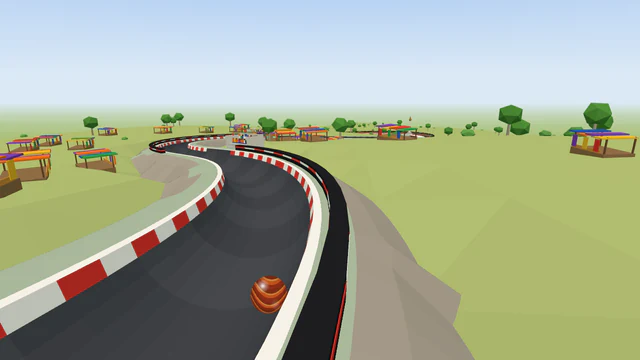
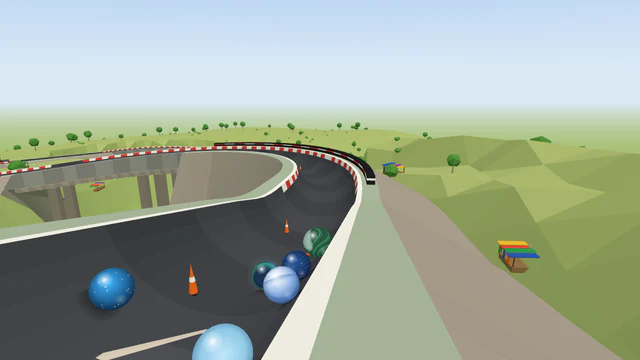
Lagos Marble Grand Prix: its own layout; its records start again
Moses: the Lagoon bridge banked turn approved, no boost launch (6 Nov 2026); built overnight on his order.
Until now Lagos was physically the same track as Sydney. A pipe drop at the gate (the field let go in
waves), a six-gate slalom drop to the market, the market S-bends, the Lagoon bridge banked turn (220° on
the steel bridge, the big feature), S-bends round Lagos Island, the beach, the Lekki S-bends and hairpin
(turning left, clear of the finish shot) and the Theatre straight; no splitter. Start shots from the
front, then high behind. Full report: all 52 lines pass (winner 54.6 s, last 84.2 s, gap 13.6 s,
60 overtakes). Data update 2027-06-02-lagos-marble-grand-prix-new-layout.sql (--relayout: its records
start again). Off the sameness test's known failures. Docs: 06, README. Full test suite: 625 pass.

Claude-Session: https://claude.ai/code/session_011vSSkqNPL9kncfzrwF15wS

diff --git a/src/tracks/lagos-marble-grand-prix.js b/src/tracks/lagos-marble-grand-prix.js
@@ -1,51 +1,79 @@
 'use strict';
 
-const { track, plunge, straight, sBends, sweep, spiral, hairpin, splitter, runIn, pileUp, swipe, parked, slalom, boost, rumble } = require('../trackKit');
+// Lagos Marble Grand Prix, its own layout (Moses, 6 Nov 2026; claude/grand-prix-relayout-plan.md). Until then it
+// was the same track as Sydney and Stockholm (the Grand Prix recipe of 10 Oct 2026, mirrored). Now a pipe drop (no
+// boost launch: it favoured the front starting group on Track and Field, Moses), the market S-bends, the Lagoon
+// bridge banked turn (the big feature, approved by Moses: 220° on the steel bridge over the lagoon), S-bends round
+// Lagos Island, the beach, the Lekki S-bends and hairpin, and the Theatre straight to the National Theatre. Its
+// records started again with the new layout (tracks.records_since).
+const {
+  track, opening, plunge, straight, sBends, sweep, hairpin, runIn, peg, slalom, swipe, parked, rumble, boost,
+} = require('../trackKit');
 
 module.exports = track({
   slug: 'lagos-marble-grand-prix',
   name: 'Lagos Marble Grand Prix',
   difficulty: 'extreme',
-  description: 'A loud, colourful race across Lagos: down from a ramp above Lagos Island, through a busy market, over the lagoon on a long bridge and down to the National Theatre.',
+  description: 'A loud, colourful race across Lagos: down a half-pipe into a busy market, round the long banked turn on the steel bridge over the lagoon, through Lagos Island and along the beach, and through Lekki to the National Theatre.',
   surface: 'asphalt',
   biome: 'city',
   lighting: 'day',
   variants: ['sunset'],
-  grandPrix: true,
-  signature: 'Lagoon bridge sweep',
+  grandPrix: { groupsEvery: 400 }, // (the small groups of spectators further apart than usual: the flyover's drawing budget)
+  signature: 'Lagoon bridge banked turn',
   tvCameras: [
-    { section: 'Lagoon bridge sweep', at: 0.8, side: 'right', distance: 6, height: 8 },
-    { section: 'Roundabout splitter', at: 0.6, side: 'right', distance: 6, height: 5 },
+    // (At the end of the bridge, looking back along the banked turn with the water beside it.)
+    { section: 'Lagoon bridge banked turn', at: 0.9, side: 'right', distance: 6, height: 6 },
+    { section: 'Lekki S-bends', at: 0.9, side: 'left', distance: 6, height: 6 },
   ],
   billboardFrame: 'led',
-  start: { landmark: 'lagos-skyline', scenery: ['grandstand'], shots: { countdown: 'above', launch: 'low-chase' } },
+  start: { landmark: 'lagos-skyline', scenery: ['grandstand'], gate: 'trapdoor', shots: { countdown: 'front', launch: 'high-behind' } },
   finish: { landmark: 'national-theatre', scenery: ['grandstand'] },
   designChanges: [
-    'The traffic-cone chicane is at the foot of the Island plunge, straight after the tyre stacks, rather than on the finish straight: a start with only the tyre stacks lets the strongest marbles win too often and sends the field into the splitter sorted by strength.',
-    'The parked danfo minibus stands on a straight, "Beach straight", before the finish rather than in the Market S-bends: the recipe keeps parked objects to straights (on a bend one traps marbles against it).',
-    'The splitter round the roundabout monument comes straight after the Market S-bends, before the Lagoon bridge, rather than after the Lekki hairpin: out of the hairpin the whole field rides one side of the channel and the splitter cannot share it out fairly (measured on Dubai Marble Grand Prix).',
-    'The Lagoon bridge sweep\'s billboards stand along the market and the straights instead: the recipe has nowhere to stand a billboard on a bridge.',
-    'A 50 m straight, "Lekki straight", before the Lekki hairpin: the recipe needs a braking zone before the one sharp bend.',
-    'The rumble strips are on the Beach straight between the spiral and the finish rather than on the spiral: the recipe keeps bumps off bends (marbles high on the wall are thrown off them).',
+    'A new layout (6 Nov 2026): until then Lagos was physically the same track as Sydney and Stockholm Marble Grand Prix (the Grand Prix recipe, mirrored), so on one seed the three ran the same race. No splitter now.',
+    'The pipe drop at the gate (a short plunge into a half-pipe down to the market): no other Grand Prix track opens this way. The gate lets the field go in waves, in a new order every race, so the front starting group gets no edge (the boost launch, Moses\'s first idea for Lagos, favoured it on Track and Field). Its start shots (from the front, then high behind) are its own.',
+    'The big feature is the Lagoon bridge banked turn: 220° on the steel bridge over the lagoon, a boost pad at its start, tighter and longer than any Grand Prix sweep before it, and a little steeper (0.12) than drawn first, for the pace.',
+    'A slalom drop down to the market straight after the half-pipe (six gates), as on the other pipe-drop tracks: the pipe drop has no pile-up, and without it the strongest marbles won too often.',
+    'The Lekki hairpin turns left: turning right, it brought the Lekki S-bends back over the finish line, 32 m up, where they covered the phone\'s finish shot.',
+    'S-bends round Lagos Island rather than a spiral, and pegs and slaloms through the market, along the beach, in the Lekki S-bends and on the Theatre straight, for the overtakes.',
   ],
+  opening: opening('pipe-drop', {
+    side: 'left',
+    names: { plunge: 'Down from the island', pipe: 'Market half-pipe' },
+    dress: { pipe: { scenery: ['market-stalls', 'crowd'] } },
+  }),
   sections: [
     {
-      name: 'Island plunge', shape: plunge(80, { grade: 0.6 }),
-      obstacles: [pileUp({ costume: 'tyre-stack', at: 0.42 }), slalom({ costume: 'traffic-cone', from: 0.55, to: 0.97, count: 6, loss: 0.3 })],
+      name: 'Down to the market', shape: plunge(50, { grade: 0.3, from: 0.15 }),
+      obstacles: [slalom({ costume: 'traffic-cone', from: 0.2, to: 0.95, count: 6, loss: 0.3 })],
     },
-    { name: 'Market S-bends', shape: sBends({ first: 'right', radius: 75, degrees: 80, grade: 0.13 }), billboards: 2, scenery: ['market-stalls', 'crowd'] },
     {
-      name: 'Roundabout splitter', shape: splitter({ side: 'right', balance: { tipOffset: 0.8, left: { drag: 0.42, scrub: 0.72 }, right: { drag: 1.32, scrub: 1.32 } } }),
-      around: 'roundabout-monument',
+      name: 'Market S-bends', shape: sBends({ first: 'right', radius: 70, degrees: 100, grade: 0.15 }), scenery: ['market-stalls', 'crowd'],
+      obstacles: [peg({ costume: 'traffic-cone', at: 0.15, line: 'center' }), peg({ costume: 'traffic-cone', at: 0.6, line: 'left' })],
     },
-    { name: 'Lagoon bridge sweep', shape: sweep({ side: 'left', radius: 80, degrees: 160, grade: 0.07 }), features: [boost({ at: 0.08 })], bridge: 'steel' },
-    { name: 'Lekki straight', shape: straight(50, { grade: 0.12 }), billboards: 2, scenery: ['crowd'] },
-    { name: 'Lekki hairpin', shape: hairpin({ side: 'right' }), obstacles: [swipe({ costume: 'camera-crane', side: 'high' })] },
-    { name: 'Beach spiral', shape: spiral({ side: 'left', radius: 45, grade: 0.17 }), scenery: ['palms'] },
     {
-      name: 'Beach straight', shape: straight(90, { grade: 0.15 }),
-      obstacles: [parked({ costume: 'danfo-bus', at: 0.15, side: 'left', length: 8 })],
-      features: [rumble({ from: 0.55, to: 0.95, count: 4 })], billboards: 2, scenery: ['palms', 'grandstand'],
+      name: 'Run to the lagoon', shape: straight(60, { grade: 0.16 }),
+      obstacles: [peg({ costume: 'traffic-cone', at: 0.15, line: 'left' }), peg({ costume: 'traffic-cone', at: 0.5, line: 'center' }), peg({ costume: 'traffic-cone', at: 0.85, line: 'right' })],
+    },
+    { name: 'Lagoon bridge banked turn', shape: sweep({ side: 'left', radius: 60, degrees: 220, grade: 0.12 }), features: [boost({ at: 0.06 })], bridge: 'steel' },
+    {
+      name: 'Island S-bends', shape: sBends({ first: 'right', radius: 65, degrees: 90, grade: 0.16 }),
+      obstacles: [peg({ costume: 'traffic-cone', at: 0.2, line: 'center' }), slalom({ costume: 'traffic-cone', from: 0.4, to: 0.85, count: 3, loss: 0.3 })],
+    },
+    {
+      name: 'Beach straight', shape: straight(60, { grade: 0.13 }), scenery: ['palms'],
+      obstacles: [parked({ costume: 'danfo-bus', at: 0.2, side: 'left', length: 6 }), peg({ costume: 'traffic-cone', at: 0.6, line: 'right' }), slalom({ costume: 'traffic-cone', from: 0.7, to: 0.95, count: 3, loss: 0.15 })],
+    },
+    {
+      name: 'Lekki S-bends', shape: sBends({ first: 'left', radius: 65, degrees: 90, grade: 0.13 }), billboards: 4, scenery: ['crowd'],
+      obstacles: [slalom({ costume: 'traffic-cone', from: 0.15, to: 0.4, count: 2, loss: 0.15 }), peg({ costume: 'traffic-cone', at: 0.5, line: 'center' }), slalom({ costume: 'traffic-cone', from: 0.6, to: 0.9, count: 2, loss: 0.15 })],
+    },
+    { name: 'Run to the hairpin', shape: straight(50, { grade: 0.12 }), obstacles: [peg({ costume: 'traffic-cone', at: 0.3, line: 'left' })] },
+    { name: 'Lekki hairpin', shape: hairpin({ side: 'left' }), obstacles: [swipe({ costume: 'camera-crane', side: 'high' })] },
+    {
+      name: 'Theatre straight', shape: straight(80, { grade: 0.17 }), billboards: 1, scenery: ['palms', 'grandstand'],
+      obstacles: [peg({ costume: 'traffic-cone', at: 0.15, line: 'left' }), peg({ costume: 'traffic-cone', at: 0.35, line: 'right' })],
+      features: [rumble({ from: 0.6, to: 0.95, count: 3 })],
     },
     { name: 'Finish', shape: runIn(), scenery: ['palms', 'grandstand'] },
   ],

diff --git a/test/samenessAllTracks.test.js b/test/samenessAllTracks.test.js
@@ -47,7 +47,6 @@ const KNOWN = {
   'dubai-marble-grand-prix': ['opening', 'opening-kind', 'layout'],
   'sydney-marble-grand-prix': ['opening', 'opening-kind', 'layout'],
   'istanbul-marble-grand-prix': ['opening', 'opening-kind', 'layout'],
-  'lagos-marble-grand-prix': ['opening', 'opening-kind', 'layout'],
   'nairobi-marble-grand-prix': ['opening', 'opening-kind', 'layout'],
   'delhi-red-fort-marble-grand-prix': ['opening', 'opening-kind', 'layout'],
   'sahara-marble-grand-prix': ['opening', 'opening-kind', 'layout'],

diff --git a/docs/06-decisions.md b/docs/06-decisions.md
@@ -4,6 +4,7 @@
 
 | Date | Decision | Why |
 |---|---|---|
+| 2026-11-07 | **Lagos Marble Grand Prix's new layout built** (technical, on Moses's approval: the Lagoon bridge banked turn approved 6 Nov 19:31; overnight order 6 Nov 23:14). A pipe drop at the gate (no boost launch, Moses; the field let go in waves), a six-gate slalom drop down to the market (the pipe drop has no pile-up: without it the strongest marbles won too often), the market S-bends, the Lagoon bridge banked turn (the big feature: 220° on the steel bridge, grade 0.12 for the pace), S-bends round Lagos Island (not a spiral, for the overtakes), the beach, the Lekki S-bends and hairpin (turning left: turning right brought the S-bends back over the finish line, covering the phone's finish shot), the Theatre straight; no splitter. Start shots from the front, then high behind. Spectator groups every 400 m (the flyover's drawing budget). Full report: all 52 lines pass (winner 54.6 s, last 84.2 s, gap 13.6 s, 60 overtakes, strongest 45.7% vs weakest 8.5%). Data update `2027-06-02-lagos-marble-grand-prix-new-layout.sql` (`--relayout`: its records start again); off the sameness test's known failures. | Lagos raced the same race as Sydney (and Stockholm, until 6 Nov) on every seed. |
 | 2026-11-06 | **Stockholm Marble Grand Prix's new layout built** (technical, on Moses's approval of the plan): a split start (the Södermalm twin chutes), then the library's climb-drop layout mirrored: the Katarina crest and the Slussen drop (its big feature and new signature; the old Bridge sweep goes), the Gamla Stan S-bends and splitter, City Hall hairpin, Djurgården spiral, Strandvägen. Two changes to the layout from tuning: the Gamla Stan S-bends turn 85° rather than 70° (out of the 70° bends the leaders took one channel of the splitter far more often than their share) and run a little steeper, with Strandvägen too (the winner-to-last gap). The splitter's tip and inside channel are tuned (tipOffset -1.6, inside 2.6). Start shots a chase then a low chase (the planned above/low chase is Lagos's today). Full report: all 56 lines pass (winner 49.1 s, last 81.5 s, gap 17.8 s, 63 overtakes). Data update `2027-06-01-stockholm-marble-grand-prix-new-layout.sql` (`--relayout`: its records start again); it comes off the sameness test's known failures. | Stockholm raced the same race as Sydney and Lagos on every seed. |
 | 2026-11-06 | **Grand Prix re-layouts, the plan review** (Moses, 19:31). **Stockholm's new layout approved as planned** (a split start, the climb-drop layout mirrored, the Slussen drop as its big feature and a Gamla Stan splitter). **Records reset approved, personal bests included**: on a re-laid track the track record, the country records and every player's personal bests (time, split, best place) start again (`tracks.records_since`, `src/game/recordsSince.js`); past results and replays stay, and the record replays of both layouts are kept. **Jumps are capped at 3 tracks and the cap is used up**: Istanbul gets another big feature (revised plan to Moses). **Lagos gets no boost-launch opening** (it favoured the front starting group on Track and Field); the Lagoon bridge banked turn is approved; a revised opening goes to Moses. Order: the records reset and Stockholm now; Lagos and Istanbul after their revisions are approved. Videos: Sahara on 7 Nov, then Grand Prix tracks may be reused, always on a seed never used on a Grand Prix track (`client/video/DAILY-ORDER.md`). | A new layout's times can't be compared with the old one's, personal bests included; jumps stay special; the opening must not hand the race to the front gates. |
 | 2026-11-06 | **The sameness check over every track, and records reset on a new layout** (Moses, after the Grand Prix investigation). 11 of the 15 Grand Prix tracks are one design: Dubai's (Dubai, Istanbul, Nairobi, Delhi Red Fort, Sahara, Wyrmwood Hollow, Frostmere with an extra drop) and its mirror (Sydney, Lagos, Stockholm, Elderglade with a waterfall). Sydney, Lagos and Stockholm are physically identical, as are Dubai and Istanbul in practice. They were built from one recipe on 10 Oct, the day before the sameness check, and the check only ever ran in a new track's own report. Now `test/samenessAllTracks.test.js` runs it on every track; today's 24 failures (these 11, ten World Tour tracks, Amazon Water Run's layout and the three hand-built tracks) are listed exceptions that may only shrink, and the Sunday docs review reports the list. **A live track whose layout changes keeps its slug and has its track and country records reset**; past results and replays stay. Next: Lagos, Stockholm and Istanbul get their own layouts, each planned for Moses's approval first; the other Grand Prix tracks, Sydney and the World Tour failures are parked. | Identical tracks race identically (the 5 Nov videos showed it); a new layout's times can't be compared with the old one's, while past races stay as they ran. |

diff --git a/docs/README.md b/docs/README.md
@@ -9,7 +9,7 @@
 **Where it stands:**
 - **Website:** live at marblespins.com (Vercel builds every push to `Main`; redeployed by Moses on 1 Nov after the Blocks Series 2 switch-on). Soft start (social media, 10–20 invited test pilots) since the week of 26 Oct. **Official launch 1 Dec 2026**, with the Holiday Season, the season pass and the apps. Google Analytics 4 is on since 31 Oct (after cookie consent); the Meta Pixel is off.
 - **Tracks:** **143 live in ten series**: World Tour, Grand Prix, Coasters, Canyons, Blocks, Track and Field, Rivers (16), Peaks (15), Pinball and Arcade. The 31 holiday tracks are switched on but hidden and closed until 1 Dec 00:00 Swedish time (174 then). **Blocks Series 2: all 20 live** (two big features each): the test five since 31 Oct; the other fifteen (four cities, three rivers, four mountains, four winter tracks) switched on by Moses on 1 Nov after the server deploy. **Saint-Tropez** (World Tour) and **Pudong Marble Grand Prix** (Grand Prix), the first two tracks with the kit's loop, switched on by Moses on 4 Nov 2026 by hand in Railway's query box, after the server deploy; the website redeployed the same morning.
-- **Server:** deployed by Moses on 6 Nov 2026 from Main (code fingerprint `533b9d0d08de`, `645de71`; 487 columns): the records reset on a new layout (`tracks.records_since`) and Stockholm Marble Grand Prix's own layout (data update `2027-06-01-stockholm-marble-grand-prix-new-layout.sql`; its records started again). Before that, 4 Nov (`d7928db64307`, `ae7dc20`; 177 tracks in the database): Pudong Marble Grand Prix (data update `2027-05-31-add-pudong-marble-grand-prix.sql`). Before that, 3 Nov (`a096af4ab19a`, 176 tracks): the loop engine (physics for the track kit's `loop` piece) and Saint-Tropez (`2027-05-30-add-saint-tropez.sql`). Before that, 2 Nov (`fb4654c0885e`, last server change `6e23a24`; 486 columns): the back office Dashboard, staff accounts (`users.is_staff`), the first-visit steps (`first_steps`), guests made with what they tapped, the hourly IP clean-up, the Security tab loaded on its own and audited (`security-view`), and the first country in the Players list. Nothing on Main waits for a server deploy.
+- **Server:** deployed by Moses on 6 Nov 2026 from Main (code fingerprint `533b9d0d08de`, `645de71`; 487 columns): the records reset on a new layout (`tracks.records_since`) and Stockholm Marble Grand Prix's own layout (data update `2027-06-01-stockholm-marble-grand-prix-new-layout.sql`; its records started again). Before that, 4 Nov (`d7928db64307`, `ae7dc20`; 177 tracks in the database): Pudong Marble Grand Prix (data update `2027-05-31-add-pudong-marble-grand-prix.sql`). Before that, 3 Nov (`a096af4ab19a`, 176 tracks): the loop engine (physics for the track kit's `loop` piece) and Saint-Tropez (`2027-05-30-add-saint-tropez.sql`). Before that, 2 Nov (`fb4654c0885e`, last server change `6e23a24`; 486 columns): the back office Dashboard, staff accounts (`users.is_staff`), the first-visit steps (`first_steps`), guests made with what they tapped, the hourly IP clean-up, the Security tab loaded on its own and audited (`security-view`), and the first country in the Players list. **Waiting for the next server deploy:** Lagos Marble Grand Prix's new layout (data update `2027-06-02-lagos-marble-grand-prix-new-layout.sql`, which resets its records). Take a backup first.
 - **Apps:** iPhone and Android (Capacitor) are built; the Android app is tested on Moses's phone. They need a rebuild for the keep-awake fix and the new sounds. Store submission is planned for 16–20 Nov.
 - **Email: on since 1 Nov 2026** (Brevo; `BREVO_API_KEY` and `EMAIL_FROM` on Railway, a password-reset email arrived in Moses's inbox; sender no-reply@marblespins.com since 4 Nov 2026, marblespins.com re-authenticated in Brevo that day, support replies with support@ as reply-to): password resets, "Confirm your email" for new sign-ups, support replies and contact-form notifications. The pass reminders are not sent yet.
 - **Payments:**
